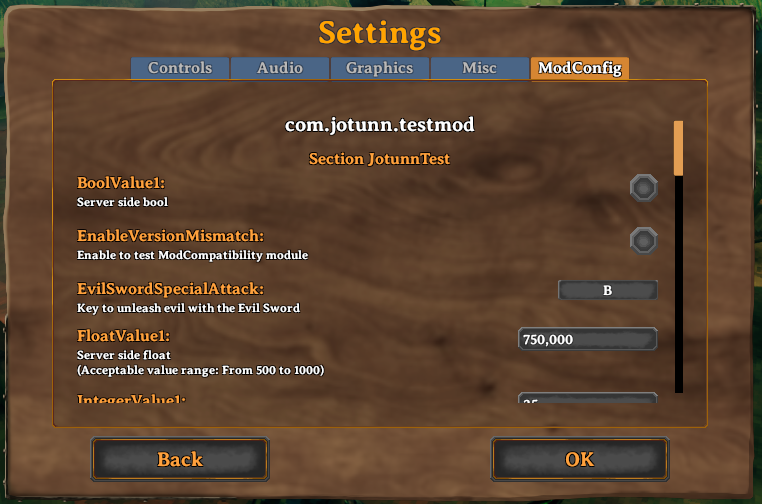
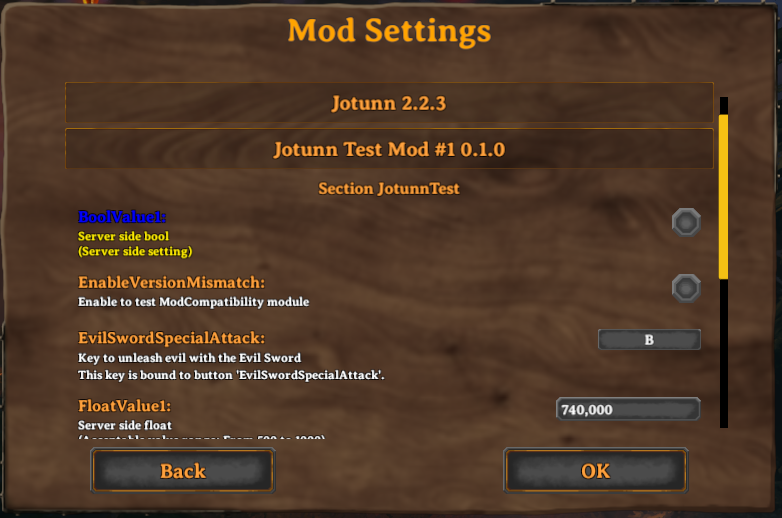
docs: add images of the new config GUI

diff --git a/JotunnLib/Documentation/tutorials/config.md b/JotunnLib/Documentation/tutorials/config.md
@@ -4,7 +4,7 @@ Jötunn itself does not provide any implementations or abstractions for persisen
 
 **Note:** `IsAdminOnly` is provided via JVL, not BepInEx.
 
-Jötunn also provides a possibility to edit your configuration values via the settings dialogue of Valheim. That only applies to configuration created with mods using Jötunn.
+Jötunn also provides a possibility to edit your configuration values via the "Mod Settings" menu added to the game. That only applies to configuration created with mods using Jötunn.
 
 ![Config Manager UI](../images/utils/ConfigManagerUI.png)
 
